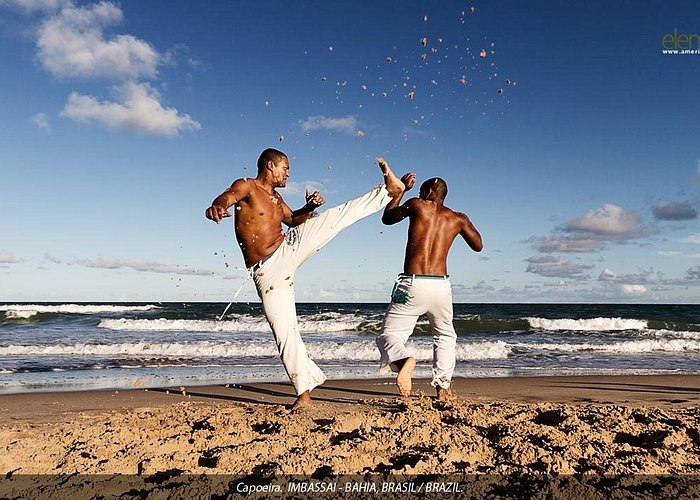
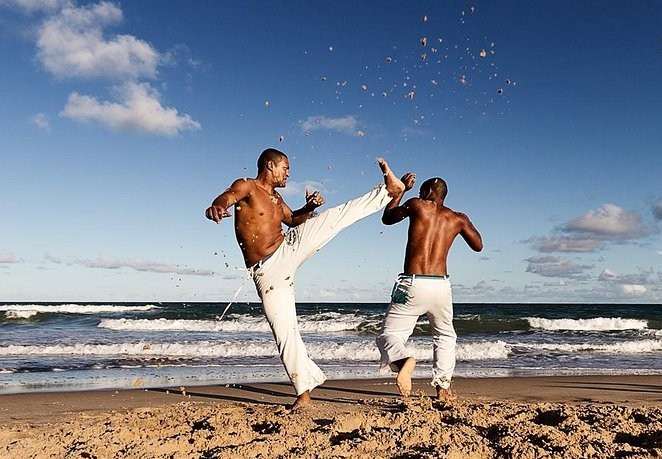
Atualizando layout e cores do site

diff --git a/style.css b/style.css
@@ -1,84 +1,98 @@
+/* Remove margens padrão */
 body {
     margin: 0;
-    font-family: Arial, sans-serif;
-    text-align: center;
-    background-color: #f4f4f4;
+    padding: 0;
+    font-family: Arial, Helvetica, sans-serif;
+    background-color: #6b3e1e;
+    color: #f5f5f5; /* texto claro */
 }
 
-/* CAPA */
+html, body {
+    height: 100%;
+}
+
+/* CAPA RESPONSIVA */
 .capa {
-    background-image: linear-gradient(rgba(0,0,0,0.5), rgba(0,0,0,0.5)),
-    url("imagens/capa.jpg");
+    background-image: url("imagens/capa.jpg");
     background-size: cover;
-    background-position: center;
-    height: 350px;
-    display: flex;
-    align-items: center;
-    justify-content: center;
-    color: white;
-    font-size: 32px;
-    font-weight: bold;
+    background-position: center 70%; /* mais centralizada para baixo */
+    background-repeat: no-repeat;
+    height: 300px;
 }
-
-/* PERFIL */
 .perfil {
-    padding: 20px;
-    background-color: white;
+    text-align: center;
+    padding: 40px 20px;
 }
-
 .foto-perfil {
-    width: 150px;
+    width: 200px;
     border-radius: 50%;
-    margin-top: -75px;
-    border: 4px solid white;
 }
 
 .descricao-curta {
-    max-width: 700px;
+    max-width: 600px;
     margin: 20px auto;
     font-size: 18px;
 }
 
 /* GALERIA */
 .galeria {
-    padding: 30px;
+    text-align: center;
+    padding: 40px 20px;
+}
+
+.fotos {
+    display: grid;
+    grid-template-columns: repeat(3, 1fr); /* 3 imagens por linha no PC */
+    gap: 20px;
+    max-width: 1000px;
+    margin: 0 auto;
 }
 
 .fotos img {
-    width: 250px;
-    margin: 10px;
-    border-radius: 10px;
+    width: 100%;
+    height: 220px;
+    object-fit: cover; /* evita distorção */
+    border-radius: 8px;
+}
+
+/* RESPONSIVO */
+@media (max-width: 768px) {
+    .fotos {
+        grid-template-columns: repeat(2, 1fr); /* 2 por linha no tablet */
+    }
+}
+
+@media (max-width: 480px) {
+    .fotos {
+        grid-template-columns: 1fr; /* 1 por linha no celular */
+    }
 }
 
 /* CONTATO */
 .contato {
-    background-color: #2e7d32;
-    color: white;
-    padding: 30px;
+    text-align: center;
+    padding: 40px 20px;
+    background-color: #4a2812;  /* tom mais escuro */
+    color: #f5f5f5;
 }
 
 /* MAPA */
 .mapa {
-    padding: 20px;
+    text-align: center;
+    padding: 40px 20px;
 }
 
-/* DESCRIÇÃO DETALHADA */
+/* DESCRIÇÃO */
 .descricao-detalhada {
-    padding: 30px;
+    padding: 40px 20px;
     max-width: 900px;
     margin: auto;
 }
 
 /* RODAPÉ */
 footer {
-    background-color: #111;
+    text-align: center;
+    padding: 20px;
+    background-color: #222;
     color: white;
-    padding: 15px;
-}
-
-/* RESPONSIVO */
-@media (max-width: 768px) {
-    .fotos img {
-        width: 90%;
-    }
 }

diff --git a/index.html b/index.html
@@ -8,9 +8,7 @@
 </head>
 <body>
 
-<section class="capa">
-    <h1>Capoeira Guerreiros</h1>
-</section>
+<section class="capa"></section>
 
 <section class="perfil">
     <img src="imagens/perfil.jpg" alt="Foto do Grupo" class="foto-perfil">
@@ -50,7 +48,7 @@
         width="100%" 
         height="300" 
         style="border:0;" 
-        allowfullscreen="" 
+        allowfullscreen 
         loading="lazy">
     </iframe>
 </section>
